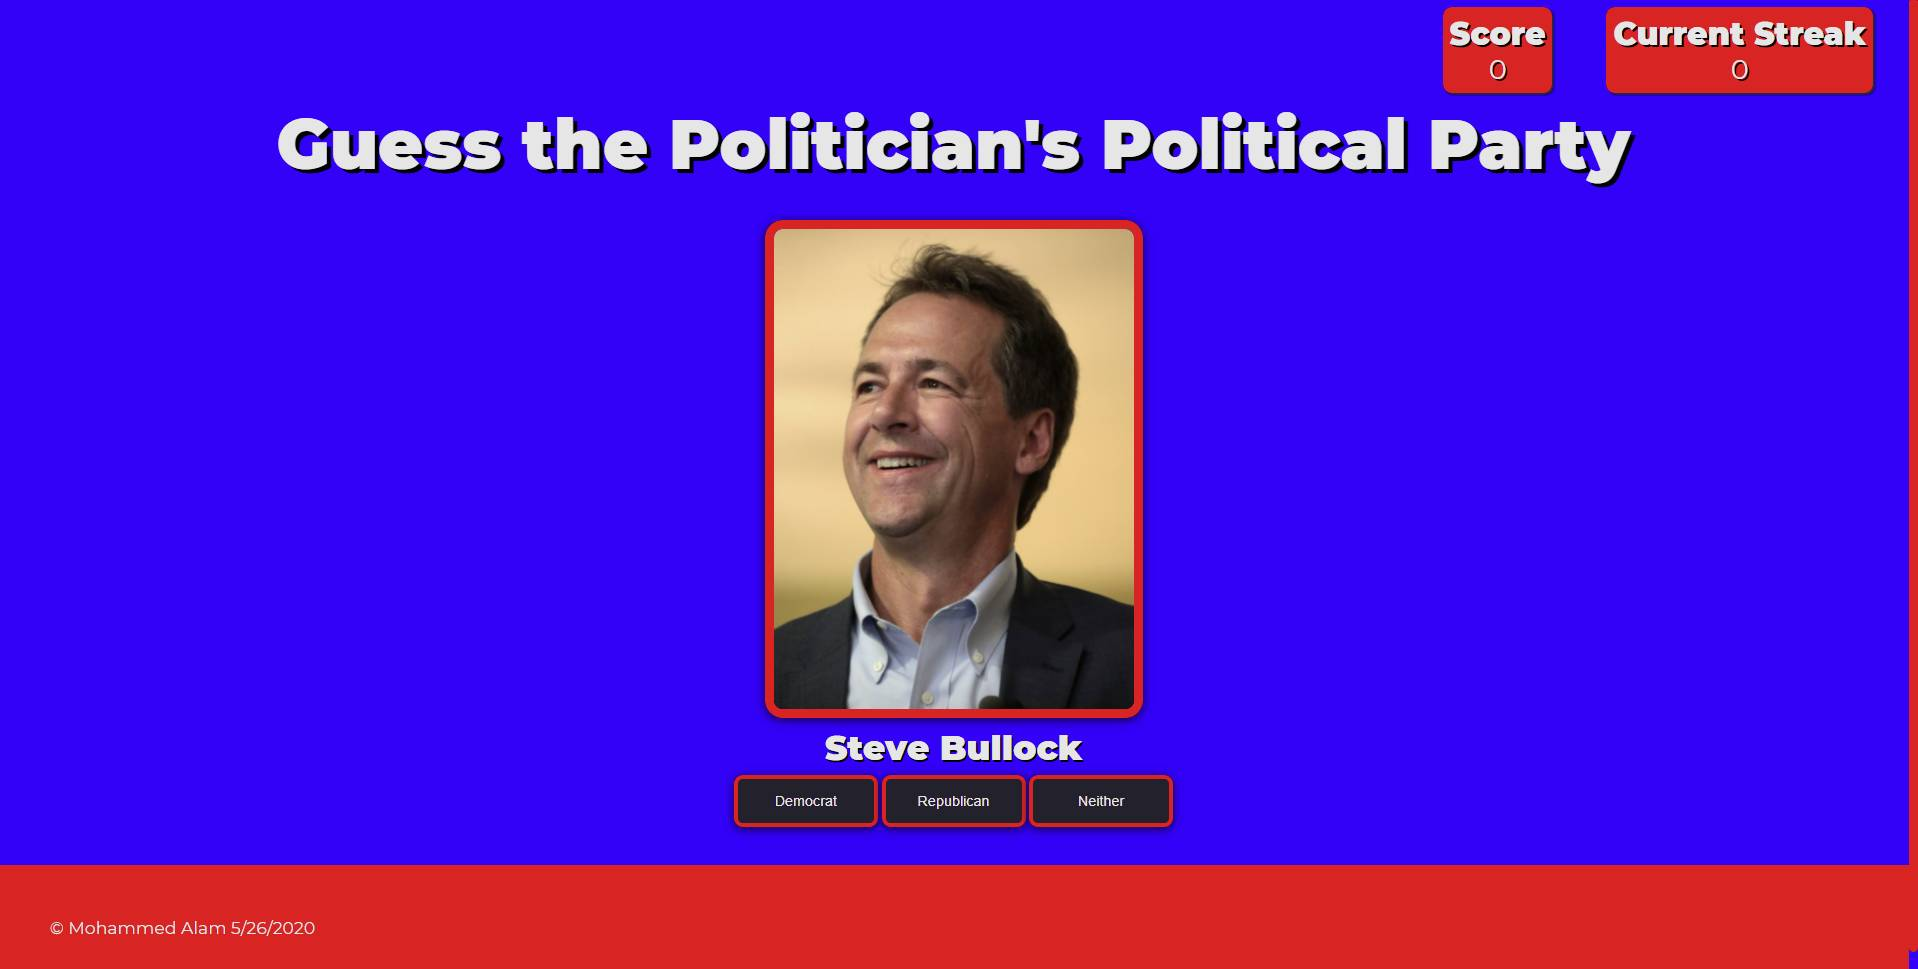
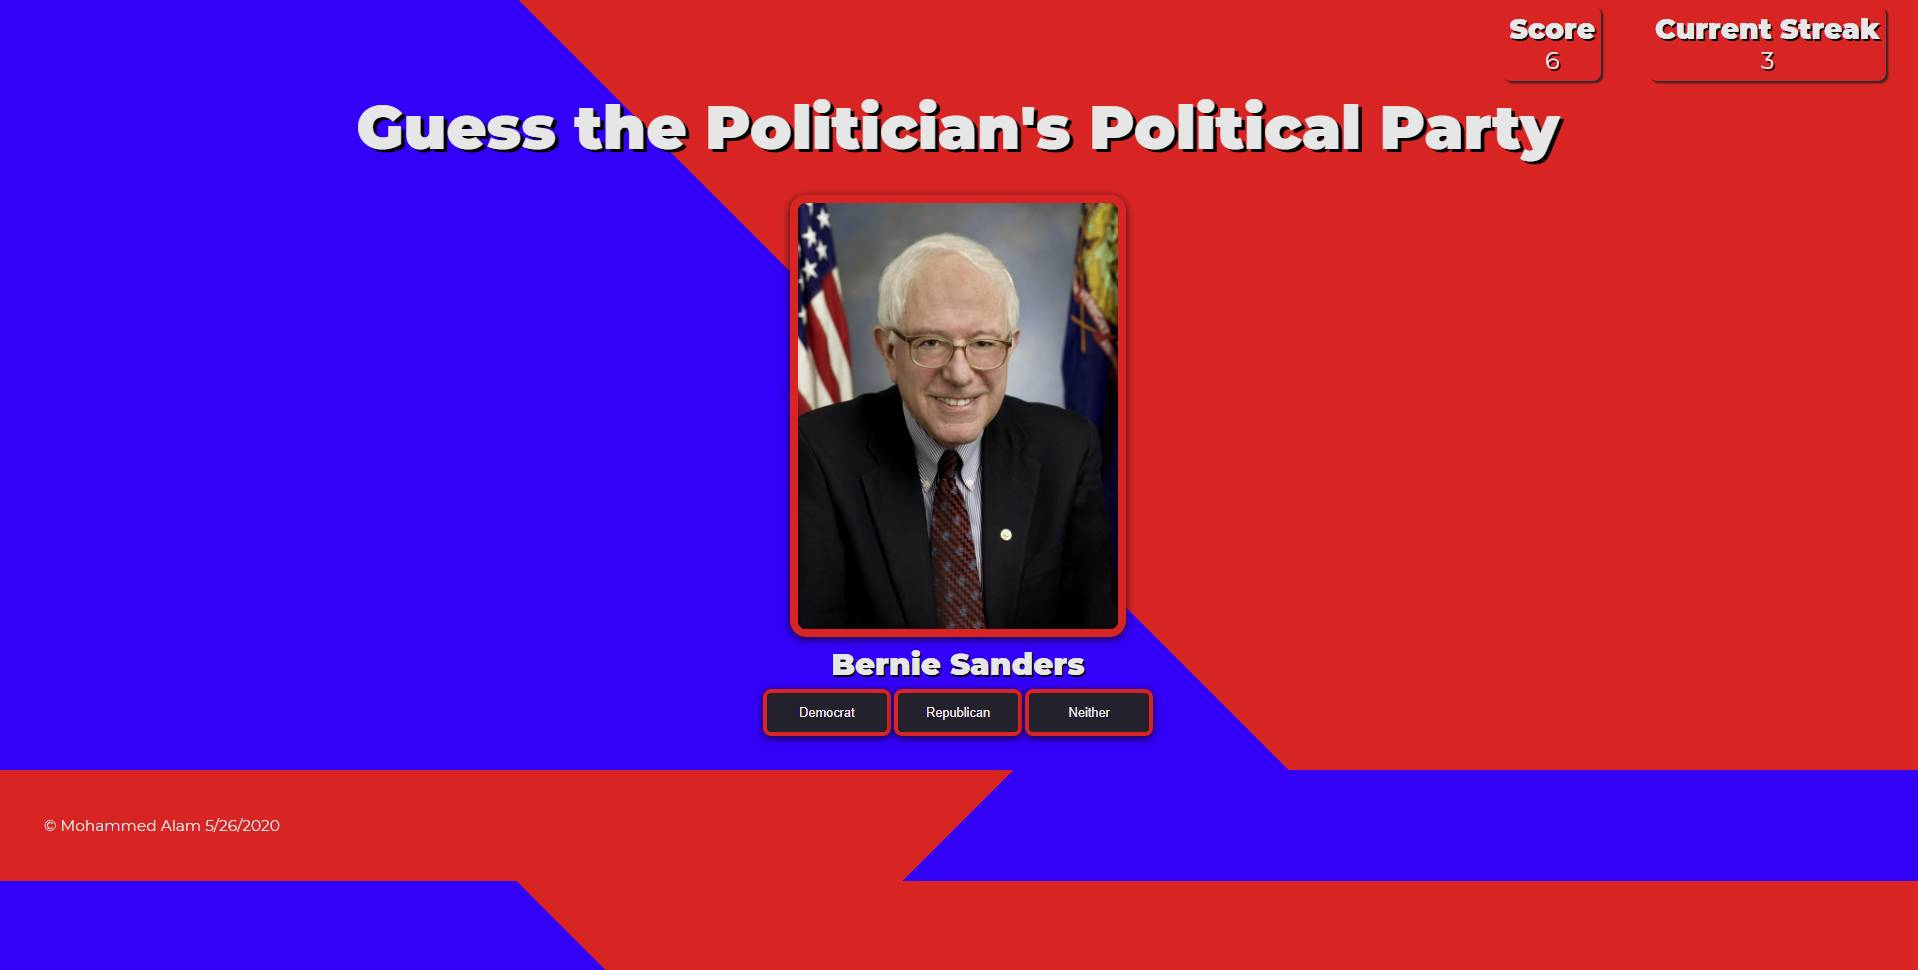
Web based calculator styles

diff --git a/calculator/assets/css/calculator.css b/calculator/assets/css/calculator.css
@@ -1,56 +1,104 @@
 *{
     margin: 0;
     padding: 0;
+    font-family: 'Montserrat', sans-serif;
+}
+
+body{
+    background-image: linear-gradient(#e66465, #9198e5);
+    font-family: 'Montserrat', sans-serif;
+    font-size: 1.2em;
+    color: #E6E6E6;
+}
+
+.title{
+    margin-top: 1em;
+    margin-right: auto; 
+    margin-left: auto; 
+    width: fit-content;
+    font-size: 4em;
+    text-shadow: 5px 4px #000000;
+    
+    text-align: center;
 }
 
 #calculator{
-    width: 30em;
-    margin-top: 16em;
+    width: fit-content;
+    margin: 10em;
     margin-left: auto;
     margin-right: auto;
+
+    border: 5px solid #FF5700;
+    border-radius: 10px;
 }
 
 #screen{
-    width: 387px;
     height: 20px;
     padding: 10px;
 
     font-size: 1.2em;
-    font-weight: 1.2em;
-    
+    margin: 5px 5px 0px 5px;
+
     border: 3px solid black;
 }
 
-button{
-    width: 100px;
-    height: 50px;
+footer{
+    opacity: 0.5;
+    background-color:rgba(0, 0, 0, 0.5);
+    padding: 1em;
 }
-.longButton{
-    width: 204px;
-}
+
+
 /* ___________________________________________________ */
 /* The button styling such as the Add to List for comments, 
 and taking the quiz. Auto style to make them look nice and active and hovers
 for good UI experience. */
 button {
+    width: 8em;
+    height: 50px;
     background-color: #232126;
     color: #E6E6E6;
     text-align: center;
-    /* Up Right Down Left */
-    margin: 5px 0px 5px 0px;
+    margin: 5px 5px 5px 5px;
     cursor: pointer;
-    border: 2px solid #819c27;
+    border: 3px solid #FF5700;
+    border-radius: 10px;
     text-align: center;
 }
 button:hover{
-    border: 2px solid #FF5700;
-    color: #FF5700;
-    font-weight: bold;
+    transition: 0.2s ease-in-out;
+    border: 3px solid #9198e5;
+    color: #9198e5;
 }
 
 button:active{
-    border: 2px solid #396BF7;
+    border: 3px solid #396BF7;
     color: #396BF7;
-    font-weight: bold;
 }
-  /* ___________________________________________________ */
+/* ___________________________________________________ */
+/* width */
+::-webkit-scrollbar {
+    width: 10px;
+}
+
+/* Track */
+::-webkit-scrollbar-track {
+    background: #9198e5;
+}
+
+/* Handle */
+::-webkit-scrollbar-thumb {
+    background: #FF5700;
+}
+
+/* Handle on hover */
+::-webkit-scrollbar-thumb:hover {
+    background: #555;
+}
+
+@media only screen and (max-width:600px){
+
+    .title{
+        font-size: 3em;
+    }
+}

diff --git a/calculator/index.html b/calculator/index.html
@@ -5,10 +5,13 @@
     <meta http-equiv="X-UA-Compatible" content="IE=edge">
     <meta name="viewport" content="width=device-width, initial-scale=1.0">
     <link rel="stylesheet" href="assets/css/calculator.css">
+    <link href="https://fonts.googleapis.com/css?family=Montserrat:400,900" rel="stylesheet">
     <script src='assets/scripts/calculator.js'></script>
     <title>Web-based Calculator</title>
 </head>
 <body>
+    <h1 class="title">Mohammed's Web Calculator</h1>
+    
     <div id="calculator">
         <div id="screen"> <p id="numbersArea"></p> </div>
         
@@ -38,10 +41,19 @@
             <button onclick="addNum()">+</button>
         </div>
         <div>
-            <button onclick="enterNum(0)" class="longButton">0</button>
+            <button onclick="posNeg()">+/-</button>
+            <button onclick="enterNum(0)">0</button>
             <button onclick="enterNum('.')">.</button>
             <button onclick="calcEnter()">=</button>
         </div>
     </div>
+
+    <footer>
+        <!-- As usual the copyright symbol -->
+        <p style="margin-bottom: .5em;"> &#169; Mohammed Alam 5/26/2020</p>
+        <p>This project was made as a test to my Web Development capabilities & to make the math easier in 
+            my discrete Math, Computer Science classes, along with adding pixels for margin and padding in CSS.
+        </p>
+    </footer>
 </body>
 </html>

diff --git a/newGame/assets/scripts/game.js b/newGame/assets/scripts/game.js
@@ -70,6 +70,7 @@ function getPoliticianSource(){
     return politicianSource;
 }
 
+var nextPicCount = 0;
 function nextPic(party){
     // setTimeout(function() {console.log("Time Delay for next Picture")}, 2500);
     // document.getElementById('currentCaption').style = "color: unset; transition: 0.3s";
@@ -84,6 +85,26 @@ function nextPic(party){
     //        break;
     //    }
     // }
+    var myScores = document.body.getElementsByClassName('scoreCountSWection');
+    document.body.classList.toggle('changeBackground');
+    if(nextPicCount % 2 == 0){
+        document.body.getElementsByTagName('footer')[0].style = 'background-image: linear-gradient(-45deg, blue 0 50%, red 50% 100%);';
+
+        for(let sC = 0; sC < myScores.length; sC++){
+            myScores[sC].style.backgroundColor = 'blue';
+        }
+
+        nextPicCount++;
+    }else{
+        document.body.getElementsByTagName('footer')[0].style = 'background-image: linear-gradient(-45deg, red 0 50%, blue 50% 100%);';
+        
+        for(let sC = 0; sC < myScores.length; sC++){
+            myScores[sC].style.backgroundColor = 'red';
+        }
+        
+        nextPicCount++;
+    }
+    
 
     // the current img src is the new index politician's src, and current caption is new index politician's name
     var currentSource = getPoliticianSource();

diff --git a/assets/scripts/homepage.js b/assets/scripts/homepage.js
@@ -20,10 +20,11 @@ function darkMode() {
       document.body.getElementsByClassName('aProject')[ap].style = "box-shadow: unset";
     }
     for(var alinks = 0; alinks<document.body.getElementsByTagName('a').length; alinks++){
-        document.body.getElementsByTagName('a')[alinks].style.color = 'silver';
+        document.body.getElementsByTagName('a')[alinks].style.color = 'dark-grey';
     }
     document.body.style.backgroundColor = 'black';
     document.getElementById('myPic').style = 'box-shadow: unset';
+    document.getElementById('slideShowBox').style = 'box-shadow: unset';
     darkModeCount++;
   }else{
     for(var ab = 0; ab<document.body.getElementsByClassName('aProject').length; ab++){
@@ -34,6 +35,7 @@ function darkMode() {
     }
     document.body.style.backgroundColor = '#01D6E0';
     document.getElementById('myPic').style = 'box-shadow: 20px 20px 20px #223031';
+    document.getElementById('slideShowBox').style = 'box-shadow: 0px 5px 10px #223031';
     darkModeCount++;
   }
 }

diff --git a/newGame/assets/css/DOR.css b/newGame/assets/css/DOR.css
@@ -3,8 +3,12 @@
     padding: 0;
 }
 
+.changeBackground{
+    background-image: linear-gradient(45deg, blue 0 50%, red 50% 100%);
+}
+
 body{
-    background-color: blue;
+    background-image: linear-gradient(45deg, red 0 50%, blue 50% 100%);
     font-family: 'Montserrat', sans-serif;
     font-size: 1.2em;
     color: #E6E6E6;

diff --git a/index.php b/index.php
@@ -153,14 +153,15 @@
 
             <div id="projects" class="mySection">
                 <h2 class="projectTitle">My Featured Projects</h2>
-                <div class="project1 aProject" onclick="location.href='altgroup/index.php'" > <img src="assets/images/CroppedCommentSectionGroup.jpg"> <a href="altgroup/index.php">The CSS Survival Guide <br> (Non-SQL edition)</a></div>
-                <div class="project2 aProject" onclick="location.href='ISTE240-ISTE240-Group-Project/index.php'" > <img src="assets/images/CroppedGroupLogin.jpg"> <a href="ISTE240-Group-Project/index.php">The CSS Survival Guide</a></div>
-                <div class="project3 aProject" onclick="location.href='nycproject/index.php'" > <img src="assets/images/CroppedNonSQLIP.jpg"> <a href="project1/index.php">Welcome to NYC <br> (Non-SQL edition)</a></div>
-                <div class="project4 aProject" onclick="location.href='ISTE-ISTE-INDIVIDUAL-PROJECT/index.php'" > <img src="assets/images/CroppedIndividualPorject.jpg"> <a href="ISTE-INDIVIDUAL-PROJECT/index.php">Welcome to New York City</a></div>
-                <div class="project5 aProject" onclick="location.href='newGame/index.html'" > <img src="assets/images/CroppedGTP.jpg"> <a href="newGame/index.html">Democrat or Republican, The Game</a></div>
-                <div class="project6 aProject" onclick="location.href='last_semester/project3/index.html'" > <img src="assets/images/CroppedCyberPunk.jpg"> <span> <a href="last_semester/project3/index.html">My CyberPunk 2077 Website</a> <span></div>
-                <div class="project7 aProject" onclick="location.href='last_semester/project2/index.html'" > <img src="assets/images/Croppedfakenews.jpg"> <span> <a href="last_semester/project2/index.html">A Guide About All The Fake News</a> </span></div>
-                <div class="project8 aProject" onclick="location.href='last_semester/midterm2201/index.html'" > <img src="assets/images/CroppedWyomingReport.jpg"> <span> <a href="last_semester/midterm2201/index.html"> Welcome to Wyoming</a> </span></div>
+                
+                <div class="project1 aProject" onclick="location.href='ISTE240-ISTE240-Group-Project/index.php'" > <img src="assets/images/CroppedGroupLogin.jpg"> <a href="ISTE240-Group-Project/index.php">The CSS Survival Guide</a></div>
+                <div class="project2 aProject" onclick="location.href='newGame/index.html'" > <img src="assets/images/CroppedGTP.jpg"> <a href="newGame/index.html">Democrat or Republican, The Game</a></div>
+                <div class="project3 aProject" onclick="location.href='ISTE-ISTE-INDIVIDUAL-PROJECT/index.php'" > <img src="assets/images/CroppedIndividualPorject.jpg"> <a href="ISTE-INDIVIDUAL-PROJECT/index.php">Welcome to New York City</a></div>
+                <div class="project4 aProject" onclick="location.href='altgroup/index.php'" > <img src="assets/images/CroppedCommentSectionGroup.jpg"> <a href="altgroup/index.php">The CSS Survival Guide <br> (Non-SQL edition)</a></div>
+                <div class="project5 aProject" onclick="location.href='last_semester/project3/index.html'" > <img src="assets/images/CroppedWebCalculator.jpg"> <span> <a href="calculator/index.html">Web Calculator</a> <span></div>
+                <div class="project6 aProject" onclick="location.href='nycproject/index.php'" > <img src="assets/images/CroppedNonSQLIP.jpg"> <a href="project1/index.php">Welcome to NYC <br> (Non-SQL edition)</a></div>
+                <div class="project7 aProject" onclick="location.href='last_semester/project3/index.html'" > <img src="assets/images/CroppedCyberPunk.jpg"> <span> <a href="last_semester/project3/index.html">CyberPunk 2077 fanpage</a> <span></div>
+                <div class="project8 aProject" onclick="location.href='last_semester/project2/index.html'" > <img src="assets/images/Croppedfakenews.jpg"> <span> <a href="last_semester/project2/index.html">A Guide About All The Fake News</a> </span></div>
                 <div class="project9 aProject" onclick="location.href='last_semester/midterm2201/index.html'" > <img src="assets/images/CroppedWyomingReport.jpg"> <span> <a href="last_semester/midterm2201/index.html"> Welcome to Wyoming</a> </span></div>
             </div>
 
